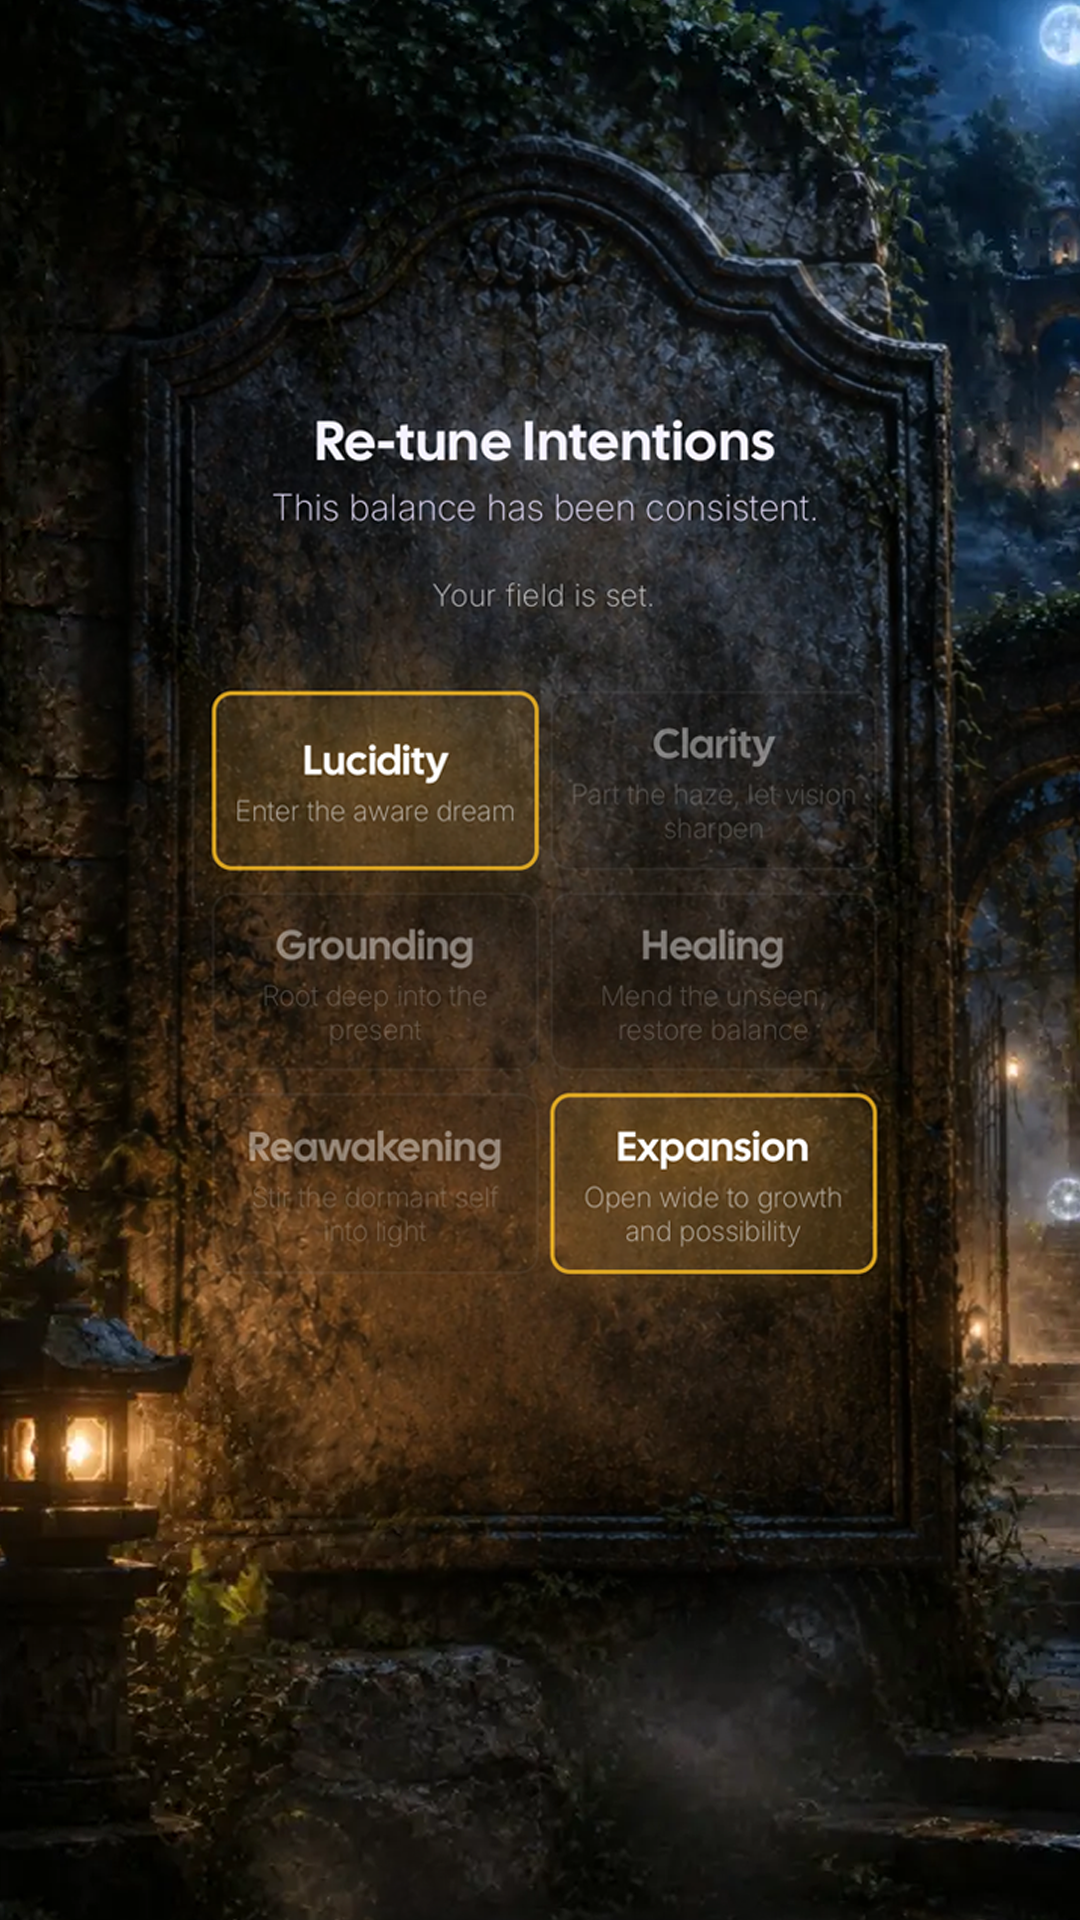
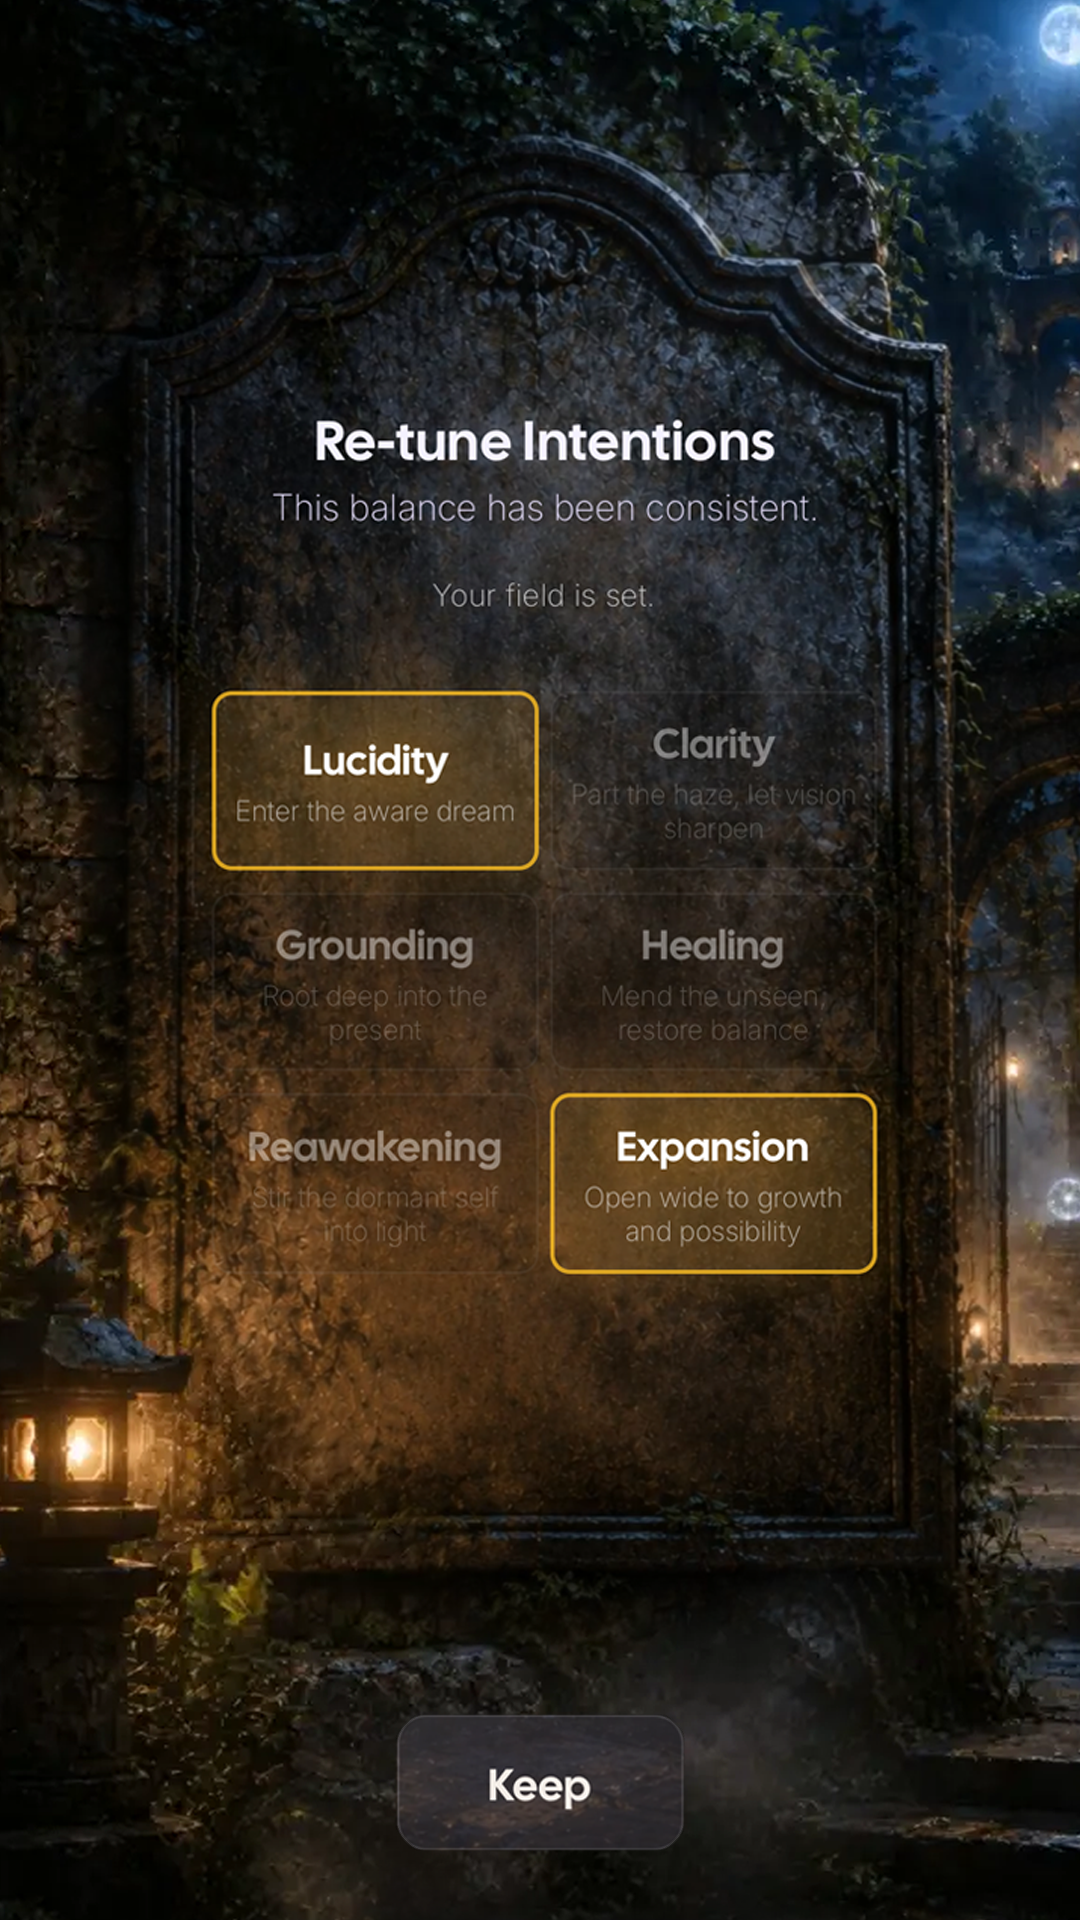
change wording on sanctum

Changed region(s): [[0.3667, 0.875, 0.6417, 0.9688]]

diff --git a/index.html b/index.html
@@ -891,7 +891,7 @@
     <div class="sanctum-inner">
       <div class="sanctum-copy reveal">
         <p class="sanctum-kicker">02 / The Sanctum</p>
-        <h2 class="sanctum-headline">Not a dashboard.<br>A place to return to.</h2>
+        <h2 class="sanctum-headline">It's not a dashboard.,<br>but a place to return to.</h2>
         <p class="sanctum-lead">Your intention, practices, and return all begin here.</p>
       </div>
       <div class="sanctum-portal reveal">
